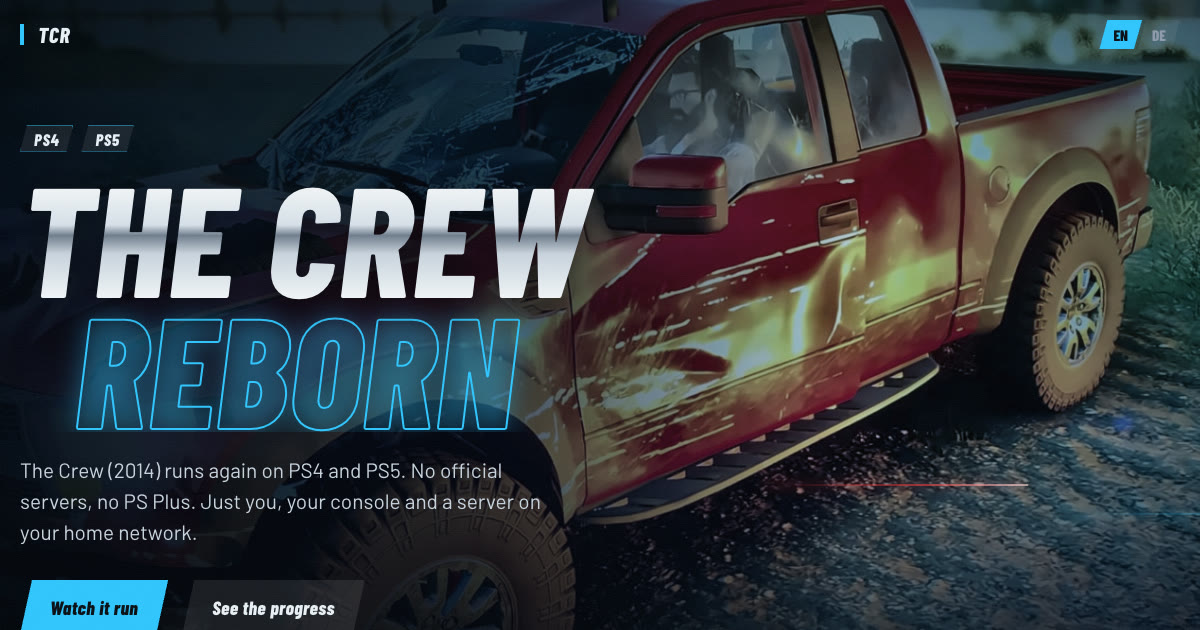
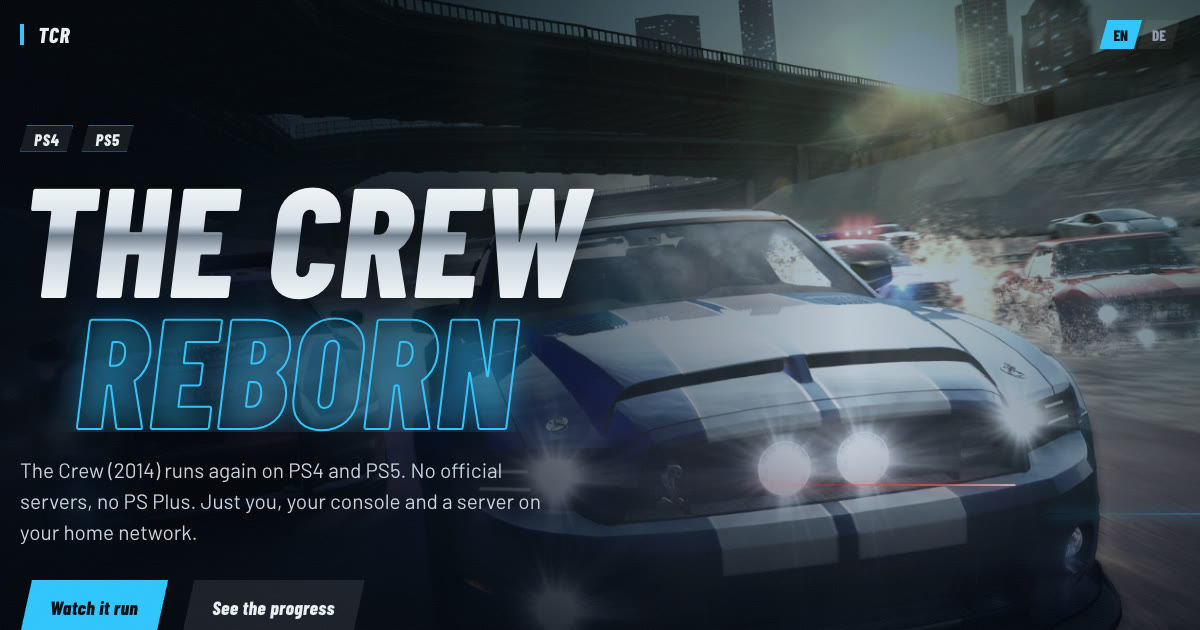
Official game screenshots instead of video stills

diff --git a/assets/content.js b/assets/content.js
@@ -3,12 +3,16 @@ window.CONTENT = {
   videos: [
     { id: "-7mQ-vVzTK0", title: "The Crew Is BACK on PS4! Offline in 2026" },
   ],
-  // Screenshots live in assets/shots/. The first one is shown wide.
+  // Screenshots live in assets/shots/. The first one is shown large.
   screenshots: [
-    { src: "assets/shots/detroit.jpg", en: "Detroit skyline across the river", de: "Detroits Skyline auf der anderen Flussseite" },
-    { src: "assets/shots/raptor.jpg", en: "First mission done", de: "Erste Mission geschafft" },
-    { src: "assets/shots/lighthouse.jpg", en: "Racing toward the bridge at sunset", de: "Mit Vollgas Richtung Brücke im Abendlicht" },
-    { src: "assets/shots/golden-water.jpg", en: "Golden hour on the river", de: "Goldene Stunde am Fluss" },
-    { src: "assets/shots/sunset-road.jpg", en: "Back roads outside the city", de: "Landstraßen vor der Stadt" },
+    { src: "assets/shots/new-york.jpg", en: "New York after dark", de: "New York bei Nacht" },
+    { src: "assets/shots/detroit-night.jpg", en: "Detroit's industrial district", de: "Detroits Industrieviertel" },
+    { src: "assets/shots/west-coast.jpg", en: "Sunset on the West Coast", de: "Sonnenuntergang an der Westküste" },
+    { src: "assets/shots/desert.jpg", en: "Desert roads of the Mountain States", de: "Wüstenstraßen in den Mountain States" },
+    { src: "assets/shots/canyon.jpg", en: "Canyon run", de: "Durch den Canyon" },
+    { src: "assets/shots/forest.jpg", en: "Off-road through the forest", de: "Offroad durch den Wald" },
+    { src: "assets/shots/dust.jpg", en: "Raid through the dust", de: "Raid durch den Staub" },
+    { src: "assets/shots/pursuit.jpg", en: "Police pursuit", de: "Polizeiverfolgung" },
+    { src: "assets/shots/docks.jpg", en: "Street race at the docks", de: "Straßenrennen am Hafen" },
   ],
 };

diff --git a/assets/style.css b/assets/style.css
@@ -73,7 +73,7 @@ h1, h2, h3, .btn, .mark, .lang, summary {
   background:
     linear-gradient(90deg, rgba(7, 11, 18, .96) 0%, rgba(7, 11, 18, .78) 38%, rgba(7, 11, 18, .25) 70%, rgba(7, 11, 18, .55) 100%),
     linear-gradient(180deg, rgba(7, 11, 18, .4) 0%, transparent 30%, transparent 62%, var(--night) 100%),
-    url("shots/raptor.jpg") 72% 50% / cover no-repeat;
+    url("shots/chase.jpg") 75% 50% / cover no-repeat;
   filter: saturate(.8) contrast(1.08);
   animation: drift 24s ease-in-out infinite alternate;
 }
@@ -328,7 +328,7 @@ h2::before {
   cursor: pointer;
   background:
     linear-gradient(180deg, rgba(7, 11, 18, .35), rgba(7, 11, 18, .85)),
-    url("shots/detroit.jpg") center / cover;
+    url("shots/detroit-night.jpg") center / cover;
 }
 .facade::after {
   content: "";
@@ -509,7 +509,7 @@ h2::before {
   height: 100%;
   object-fit: cover;
   display: block;
-  filter: saturate(.85) contrast(1.06) brightness(.82);
+  filter: saturate(.9) contrast(1.05) brightness(.88);
   transition: transform .6s cubic-bezier(.2, .7, .2, 1), filter .4s;
 }
 .shot::after {
@@ -629,7 +629,7 @@ details p { margin: 0 0 20px; max-width: var(--measure); color: var(--steel); }
   .hero-bg {
     background:
       linear-gradient(180deg, rgba(7, 11, 18, .55) 0%, rgba(7, 11, 18, .35) 30%, rgba(7, 11, 18, .85) 62%, var(--night) 100%),
-      url("shots/raptor.jpg") 30% 30% / cover no-repeat;
+      url("shots/chase.jpg") 72% 40% / cover no-repeat;
   }
   .h1-b { padding-left: .2em; }
   .gallery { grid-template-columns: 1fr; grid-auto-rows: 56vw; }

diff --git a/assets/site.js b/assets/site.js
@@ -45,7 +45,7 @@
     b4: "Fraktionen",
     b5: "Die übrigen Missionsarten",
     shotsTitle: "Von unterwegs",
-    shotsText: "Standbilder von meiner PS4. Screenshots aus dem späteren Verlauf der Story folgen.",
+    shotsText: "Szenen von überall auf der Karte. Jeder dieser Orte wartet auf deinem eigenen Server.",
     needTitle: "Was du brauchst",
     n1: "Dein eigenes The Crew für die PS4",
     n1t: "Disc oder Download, europäische Version 1.21 (CUSA00161). Andere Regionen sind geplant.",
@@ -66,7 +66,7 @@
     q4: "Wann kann ich es herunterladen?",
     a4: "Sobald alle Aktivitäten laufen und die Anleitung steht. Ein Datum gibt es noch nicht. Neue Videos auf dem YouTube-Kanal zeigen jeden Schritt.",
     channel: "YouTube-Kanal",
-    legal: "The Crew Reborn ist ein Fanprojekt von Knutwurst. The Crew ist eine Marke von Ubisoft Entertainment. PlayStation und PS4 sind Marken von Sony Interactive Entertainment. Diese Seite steht in keiner Verbindung zu Ubisoft oder Sony und wird von ihnen nicht unterstützt.",
+    legal: "The Crew Reborn ist ein Fanprojekt von Knutwurst. The Crew ist eine Marke von Ubisoft Entertainment. PlayStation und PS4 sind Marken von Sony Interactive Entertainment. Spiel-Screenshots © Ubisoft Entertainment. Diese Seite steht in keiner Verbindung zu Ubisoft oder Sony und wird von ihnen nicht unterstützt.",
   };
 
   const nodes = Array.from(document.querySelectorAll("[data-i18n]"));

diff --git a/index.html b/index.html
@@ -137,7 +137,7 @@
   <section id="shots" class="band">
     <div class="wrap">
       <h2 data-i18n="shotsTitle">From the road</h2>
-      <p class="lede" data-i18n="shotsText">Stills from my PS4. Screenshots from later in the story follow.</p>
+      <p class="lede" data-i18n="shotsText">Scenes from across the map. Every one of these places is waiting on your own server.</p>
     </div>
     <div class="gallery" id="gallery"></div>
   </section>
@@ -187,7 +187,7 @@
       <a href="https://www.youtube.com/@Knutwurst" data-i18n="channel">YouTube channel</a>
       <a href="https://github.com/knutwurst/the-crew-reborn">GitHub</a>
     </p>
-    <p data-i18n="legal">The Crew Reborn is a fan project by Knutwurst. The Crew is a trademark of Ubisoft Entertainment. PlayStation and PS4 are trademarks of Sony Interactive Entertainment. This site is not affiliated with or endorsed by Ubisoft or Sony.</p>
+    <p data-i18n="legal">The Crew Reborn is a fan project by Knutwurst. The Crew is a trademark of Ubisoft Entertainment. PlayStation and PS4 are trademarks of Sony Interactive Entertainment. Game screenshots &copy; Ubisoft Entertainment. This site is not affiliated with or endorsed by Ubisoft or Sony.</p>
   </div>
 </footer>
 
